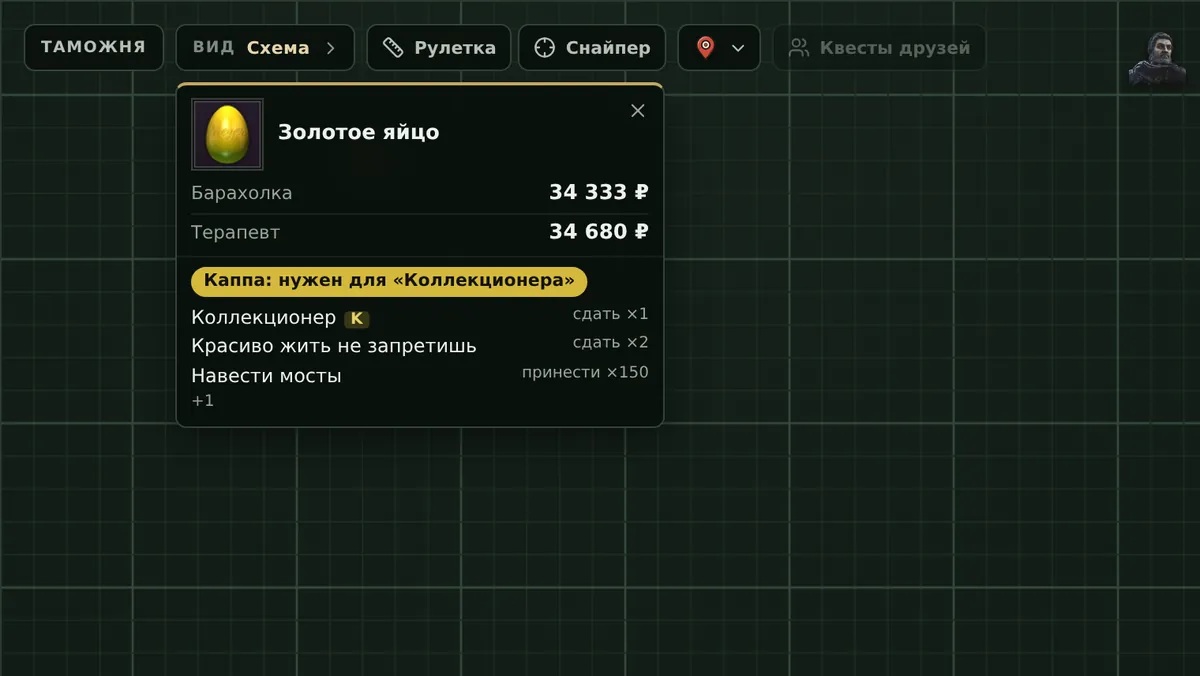
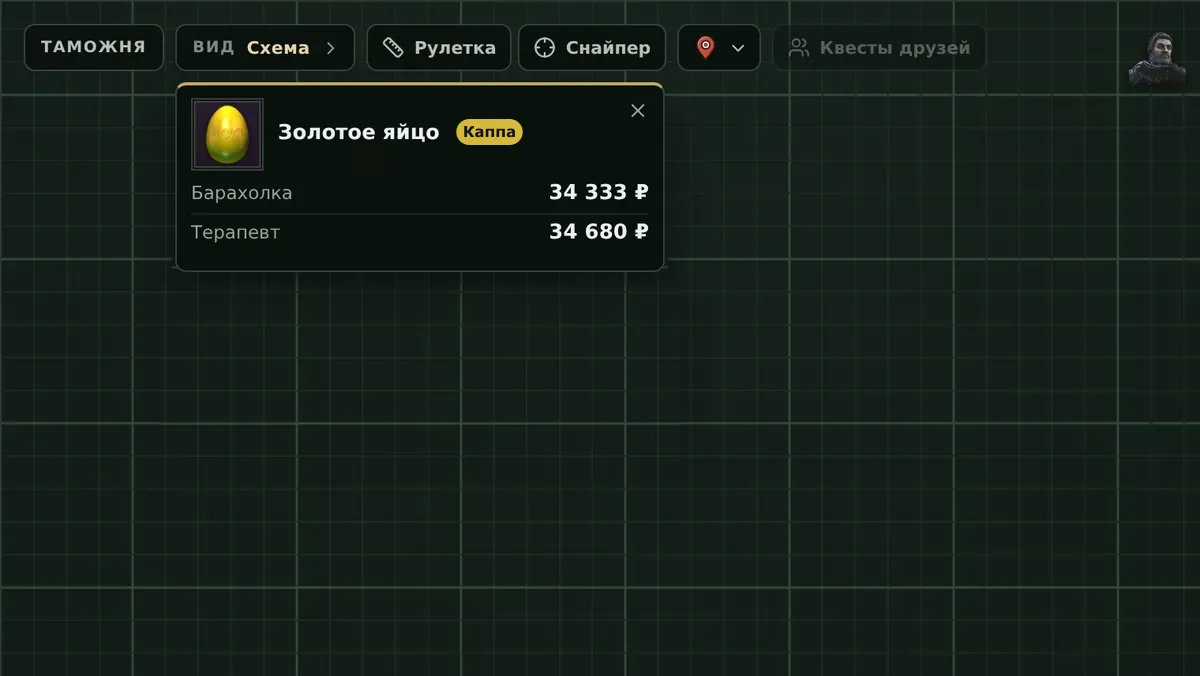
Home page: owner's cuts, the item card as the app draws it, real Collector pictures
Release 0.6.0.103.

diff --git a/website/src/i18n/phrasesPublic.ts b/website/src/i18n/phrasesPublic.ts
@@ -3,8 +3,8 @@ export const PUBLIC_PHRASES: ReadonlyArray<readonly [string, string]> = [
   // The home page's twelve reasons after the trailer of 16.10.2026: the item card and the point on «Карты», «Оружейник».
   ['Предмет', 'Item'],
   ['Информация о предмете — прямо на карте', 'Item info right on the map'],
-  ['Наведите курсор на предмет в игре и нажмите горячую клавишу — её можно повесить и на боковую кнопку мыши. Карточка появится на «Картах» в приложении, слева вверху под кнопкой «Вид», и сразу же в телефоне. Поверх игры ничего не рисуется.',
-    'Hover an item in the game and press the hotkey (a side mouse button works too). The card appears on the app’s Maps, top left under the View button, and at once on your phone. Nothing is drawn over the game.'],
+  ['Наведите курсор на предмет в игре и нажмите горячую клавишу. Карточка появится на «Картах» в приложении и сразу же в телефоне. Поверх игры ничего не рисуется.',
+    'Hover an item in the game and press the hotkey. The card appears on the app’s Maps and at once on your phone. Nothing is drawn over the game.'],
   ['Картинка предмета, цена на барахолке и у лучшего торговца', 'The item’s picture, its flea market price and the best trader price'],
   ['Нужен ли предмет для Каппы и «Коллекционера»', 'Whether the item is needed for Kappa and the Collector'],
   ['Для каких квестов он нужен и сколько штук', 'Which quests need it and how many'],
@@ -17,16 +17,16 @@ export const PUBLIC_PHRASES: ReadonlyArray<readonly [string, string]> = [
   ['Телефон получает позицию моментально', 'The phone gets the position instantly'],
   ['Оружейник', 'Gunsmith'],
   ['Сборки для квестов «Оружейник»', 'Builds for the Gunsmith quests'],
-  ['На «Обзоре» — часть «Оружейника», которую вы взяли, а на своей странице — вся цепочка: какое оружие, какие характеристики нужны и какие детали купить.',
-    'The Overview shows the Gunsmith part you have taken, and its own page the whole chain: which weapon, which stats it needs and which parts to buy.'],
+  ['На «Обзоре» — часть «Оружейника», которую вы взяли.',
+    'The Overview shows the Gunsmith part you have taken.'],
   ['Детали с картинками и ценами', 'Parts with pictures and prices'],
   ['Кто продаёт деталь и с какого уровня торговца', 'Who sells each part and from which trader level'],
   ['Нужные характеристики: эргономика, отдача, вес', 'The stats it needs: ergonomics, recoil, weight'],
   ['Чем можно заменить модуль', 'What can replace a mod'],
   ['Вход на телефоне по QR-коду — без пароля', 'Sign in on the phone with a QR code, no password'],
   ['Raid OS · Карты', 'Raid OS · Maps'],
-  ['Карточка предмета на «Картах» под кнопкой «Вид»: золотое яйцо, цены барахолки и Терапевта, пометка «Каппа» и квесты, для которых он нужен',
-    'The item card on Maps under the View button: the golden egg, its flea market and Therapist prices, the Kappa tag and the quests that need it'],
+  ['Карточка предмета на «Картах»: золотое яйцо с пометкой «Каппа», цены барахолки и Терапевта',
+    'The item card on Maps: the golden egg with the Kappa tag, its flea market and Therapist prices'],
   ['Raid OS · Карты · Таможня', 'Raid OS · Maps · Customs'],
   ['Точка игрока с направлением взгляда на карте Таможни в приложении, рядом квестовые точки', 'The player’s point with the facing direction on the Customs map in the app, quest points nearby'],
   ['Вы здесь', 'You are here'],
@@ -41,7 +41,7 @@ export const PUBLIC_PHRASES: ReadonlyArray<readonly [string, string]> = [
   ['Где вы — на карте и в телефоне', 'Where you are, on the map and on your phone'],
   ['Сделайте скриншот в рейде: точка с направлением взгляда появится на карте в приложении и сразу же в телефоне.', 'Take a screenshot in a raid: a dot with your view direction appears on the map in the app and at once on your phone.'],
   ['Карта текущего рейда открывается сама', 'The current raid’s map opens by itself'],
-  ['Этаж по высоте из скриншота', 'The floor from the screenshot’s height'],
+  ['Этаж', 'The floor'],
   ['Телефон получает позицию и цену предмета моментально', 'The phone gets the position and the item price instantly'],
   ['Отдельное окно рядом с игрой и телефон, Windows 10 и 11.', 'A separate window next to the game and your phone, Windows 10 and 11.'],
   ['прогресс, позиция и цены', 'progress, position and prices'],
@@ -51,7 +51,7 @@ export const PUBLIC_PHRASES: ReadonlyArray<readonly [string, string]> = [
   ['Raid OS — полевой компаньон · Escape from Tarkov', 'Raid OS — field companion · Escape from Tarkov'],
   ['Всё важное перед рейдом — в одном окне рядом с игрой.', 'Everything you need before a raid, in one window next to the game.'],
   ['Скачать приложение', 'Download the app'], ['Личный кабинет', 'My account'],
-  ['Не вмешивается в игру · Windows 10 и 11', 'Does not interfere with the game · Windows 10 and 11'],
+  ['Не вмешивается в игру', 'Does not interfere with the game'],
   ['Пригласи друга', 'Invite a friend'], ['Raid OS выгоднее с отрядом', 'Raid OS pays off with a squad'],
   ['Приглашай друзей, помогай им быстрее закрывать квесты и получай Premium бесплатно. Твой друг получает скидку 20 % на первый месяц, а ты — 7 дней Premium за каждого, кто его оплатил, даже если у тебя ещё не было оплат.',
     'Invite friends, help them finish tasks faster and get Premium for free. Your friend gets 20% off the first month, and you get 7 days of Premium for every friend who pays for it — even if you have never paid yourself.'],
@@ -245,7 +245,7 @@ export const PUBLIC_PHRASES: ReadonlyArray<readonly [string, string]> = [
   ['Метка MATE на карточке предмета: он нужен другу или товарищу по отряду', 'MATE mark on the item card: a friend or squadmate needs it'],
   ['Приглашение ссылкой или QR-кодом, прогресс можно скрыть', 'Invite by link or QR code; progress can be hidden'],
   ['Что внутри', 'What’s inside'], ['Десять причин держать Raid OS открытым', 'Ten reasons to keep Raid OS open'],
-  ['Квесты, карты, цены и отряд — в одном окне рядом с игрой.', 'Tasks, maps, prices and your squad, in one window next to the game.'],
+  ['Квесты, карты, цены и отряд — в одном окне.', 'Tasks, maps, prices and your squad, in one window.'],
   ['Готовы к рейду?', 'Ready to raid?'], ['Следующий рейд — уже с планом', 'Your next raid comes with a plan'],
   ['Скачайте Raid OS для Windows, войдите в аккаунт — и квесты, карты и цены будут под рукой с первого захода.',
     'Download Raid OS for Windows, sign in, and tasks, maps and prices will be at hand from your very first raid.'],
@@ -304,7 +304,7 @@ export const PUBLIC_PHRASES: ReadonlyArray<readonly [string, string]> = [
     'An example squad. The MATE mark shows no names: it is just a sign that someone on your side needs the item.'],
   // The home page presentation per the trailer (11.10.2026).
   ['3D-модели: покрутите и рассмотрите снаряжение', '3D models: turn them and look at the gear'],
-  ['HP по частям тела рядом с цифрами ЧВК', 'HP per body part next to the PMC numbers'],
+  ['HP по частям тела', 'HP per body part'],
   ['PvP, PvE и Сезон — у каждого своя база', 'PvP, PvE and Season, each with its own base'],
   ['«Обзор» в режимах PvP, PvE и Сезон: у каждого свой прогресс', 'The Overview in PvP, PvE and Season: each has its own progress'],
   ['«Обзор» в теме «{name}»', 'The Overview in the “{name}” theme'],
@@ -324,7 +324,7 @@ export const PUBLIC_PHRASES: ReadonlyArray<readonly [string, string]> = [
   ['Горячие клавиши — и на кнопки мыши', 'Hotkeys, mouse buttons included'],
   ['Двенадцать причин держать Raid\u00a0OS открытым', 'Twelve reasons to keep Raid\u00a0OS open'],
   ['Карточка видеокарты с меткой MATE: предмет нужен другу или напарнику', 'The graphics card with the MATE tag: a friend or squad mate needs it'],
-  ['Карточка каждого босса: 3D-модель, здоровье по частям тела, вооружение, лут и тактика боя.', 'A card for every boss: 3D model, health per body part, weapons, loot and combat tactics.'],
+  ['Карточка каждого босса.', 'A card for every boss.'],
   ['Карточка кроссовок Viibiin с пометкой «Каппа» прямо в рейде', 'The Viibiin sneakers card with the “Kappa” tag right in the raid'],
   ['Карточка предмета в рейде: кроссовки Viibiin, пометка «Каппа», цены барахолки и Терапевта', 'The in-raid item card: Viibiin sneakers, the “Kappa” tag, flea market and Therapist prices'],
   ['Квестовые точки рядом', 'Quest points nearby'],
@@ -358,7 +358,7 @@ export const PUBLIC_PHRASES: ReadonlyArray<readonly [string, string]> = [
   ['Пометка «Каппа»: предмет нужен для «Коллекционера»', 'The “Kappa” tag: the item is needed for “Collector”'],
   ['Предметы, требуемые в рейде: ключи, маркеры и то, что нужно заложить', 'Items the raid needs: keys, markers and what to plant'],
   ['Приглашение ссылкой или QR-кодом', 'Invite by link or QR code'],
-  ['Приложение на iOS и Android — скоро', 'The iOS and Android app: coming soon'],
+  ['Приложение на iOS и Android', 'The iOS and Android app'],
   ['Приняли задание в игре — оно уже на «Обзоре». Raid OS собирает план рейда на выбранную карту.', 'Take a task in the game and it is already on the Overview. Raid OS builds the raid plan for the chosen map.'],
   ['Приоритет карт: где больше всего ваших заданий', 'Map priority: where most of your tasks are'],
   ['Пробитие и урон всех патронов', 'Penetration and damage of every round'],

diff --git a/website/src/components/promo/Presentation.tsx b/website/src/components/promo/Presentation.tsx
@@ -14,7 +14,7 @@ interface Feature {
   icon: ReactNode
   eyebrow: string
   title: string
-  lead: string
+  lead?: string
   points: string[]
   visual: ReactNode
   note?: string
@@ -48,11 +48,10 @@ const FEATURES: Feature[] = [
     icon: <Tag />,
     eyebrow: 'Предмет',
     title: 'Информация о предмете — прямо на карте',
-    lead: 'Наведите курсор на предмет в игре и нажмите горячую клавишу — её можно повесить и на боковую кнопку мыши. Карточка появится на «Картах» в приложении, слева вверху под кнопкой «Вид», и сразу же в телефоне. Поверх игры ничего не рисуется.',
+    lead: 'Наведите курсор на предмет в игре и нажмите горячую клавишу. Карточка появится на «Картах» в приложении и сразу же в телефоне. Поверх игры ничего не рисуется.',
     points: [
       'Картинка предмета, цена на барахолке и у лучшего торговца',
       'Нужен ли предмет для Каппы и «Коллекционера»',
-      'Для каких квестов он нужен и сколько штук',
       'Метка, если предмет нужен другу или напарнику из отряда',
     ],
     visual: <MapItemVisual />,
@@ -62,10 +61,8 @@ const FEATURES: Feature[] = [
     icon: <Layers />,
     eyebrow: 'Режимы',
     title: 'PvP, PvE и Сезон — у каждого своя база',
-    lead: 'Переключились — и всё приложение показывает выбранный режим.',
     points: [
       'Свой прогресс заданий и Каппы',
-      'Свои задания',
       'Свои цены на барахолке',
     ],
     visual: <ModesVisual />,
@@ -75,7 +72,6 @@ const FEATURES: Feature[] = [
     icon: <Archive />,
     eyebrow: 'Путь к Каппе',
     title: '«Коллекционер» собирается сам',
-    lead: 'Нажмите «Сканировать» и пролистайте схрон — найденные предметы отметятся сами.',
     points: [
       'Синхронизация из схрона',
       'Что уже собрано и что осталось',
@@ -91,7 +87,7 @@ const FEATURES: Feature[] = [
     lead: 'Сделайте скриншот в рейде: точка с направлением взгляда появится на «Картах» в приложении и сразу же в телефоне.',
     points: [
       'Карта текущего рейда открывается сама',
-      'Этаж по высоте из скриншота',
+      'Этаж',
       'Квестовые точки и выходы рядом',
       'Телефон получает позицию моментально',
     ],
@@ -116,7 +112,7 @@ const FEATURES: Feature[] = [
     icon: <Wrench />,
     eyebrow: 'Оружейник',
     title: 'Сборки для квестов «Оружейник»',
-    lead: 'На «Обзоре» — часть «Оружейника», которую вы взяли, а на своей странице — вся цепочка: какое оружие, какие характеристики нужны и какие детали купить.',
+    lead: 'На «Обзоре» — часть «Оружейника», которую вы взяли.',
     points: [
       'Детали с картинками и ценами',
       'Кто продаёт деталь и с какого уровня торговца',
@@ -130,10 +126,10 @@ const FEATURES: Feature[] = [
     icon: <Skull />,
     eyebrow: 'Боссы',
     title: 'Боссы в 3D и их здоровье',
-    lead: 'Карточка каждого босса: 3D-модель, здоровье по частям тела, вооружение, лут и тактика боя.',
+    lead: 'Карточка каждого босса.',
     points: [
       '3D-модели: покрутите и рассмотрите снаряжение',
-      'HP по частям тела рядом с цифрами ЧВК',
+      'HP по частям тела',
       'Вооружение, лут и «Тактика боя»',
     ],
     visual: <BossesVisual />,
@@ -171,7 +167,6 @@ const FEATURES: Feature[] = [
     lead: 'Кнопка палитры в верхней панели переключает оформление всего приложения.',
     points: [
       'Олива, Чёрный мультикам, Металл, Тельняшка и Снаряжение',
-      'Выбранная тема запоминается',
     ],
     visual: <ThemesVisual />,
   },
@@ -185,7 +180,7 @@ const FEATURES: Feature[] = [
       'Полная синхронизация',
       'Моментальное местоположение на телефоне',
       'Вход на телефоне по QR-коду — без пароля',
-      'Приложение на iOS и Android — скоро',
+      'Приложение на iOS и Android',
     ],
     visual: <SyncVisual />,
   },
@@ -198,7 +193,7 @@ function FeatureSection({ feature, index }: { feature: Feature; index: number })
       <Reveal className="feature-text">
         <div className="feature-eyebrow"><span className="feature-icon" aria-hidden="true">{feature.icon}</span><span className="feature-num">{number}</span>{tr(feature.eyebrow)}</div>
         <h2 className="feature-title" id={`${feature.id}-title`}>{tr(feature.title)}</h2>
-        <p className="feature-lead">{tr(feature.lead)}</p>
+        {feature.lead && <p className="feature-lead">{tr(feature.lead)}</p>}
         <ul className="feature-points">{feature.points.map((point) => <li key={point}>{tr(point)}</li>)}</ul>
         {feature.note && <p className="feature-note">{tr(feature.note)}</p>}
       </Reveal>
@@ -214,7 +209,7 @@ export function Presentation() {
         <Reveal className="promo-intro">
           <div className="eyebrow">{tr('Что внутри')}</div>
           <h2 className="promo-intro-title">{tr('Двенадцать причин держать Raid\u00a0OS открытым')}</h2>
-          <p className="promo-intro-lead">{tr('Квесты, карты, цены и отряд — в одном окне рядом с игрой.')}</p>
+          <p className="promo-intro-lead">{tr('Квесты, карты, цены и отряд — в одном окне.')}</p>
         </Reveal>
         {FEATURES.map((feature, index) => <FeatureSection key={feature.id} feature={feature} index={index} />)}
       </div>

diff --git a/website/src/components/promo/PromoVisuals.tsx b/website/src/components/promo/PromoVisuals.tsx
@@ -77,7 +77,7 @@ export function OverviewVisual() {
 export function MapItemVisual() {
   return (
     <figure className="promo-figure">
-      <Shot src={shot(mapItem, mapItemEn)} width={1200} height={676} title={tr('Raid OS · Карты')} alt={tr('Карточка предмета на «Картах» под кнопкой «Вид»: золотое яйцо, цены барахолки и Терапевта, пометка «Каппа» и квесты, для которых он нужен')} />
+      <Shot src={shot(mapItem, mapItemEn)} width={1200} height={676} title={tr('Raid OS · Карты')} alt={tr('Карточка предмета на «Картах»: золотое яйцо с пометкой «Каппа», цены барахолки и Терапевта')} />
     </figure>
   )
 }
@@ -210,16 +210,16 @@ export function SyncVisual() {
     <figure className="promo-figure">
       <div className="sync-mock">
         <div className="sync-devices" role="img" aria-label={tr('Схема: приложение для ПК, сайт и телефон связаны через один аккаунт на сервере Raid OS')}>
-          <div className="sync-node"><Monitor aria-hidden="true" /><strong>{tr('ПК')}</strong><span>{tr('квесты, сюжет, Каппа')}</span></div>
-          <div className="sync-node"><Globe aria-hidden="true" /><strong>{tr('Сайт')}</strong><span>{tr('кабинет и подписка')}</span></div>
-          <div className="sync-node"><Smartphone aria-hidden="true" /><strong>{tr('Телефон')}</strong><span>{tr('прогресс, позиция и цены')}</span></div>
+          <div className="sync-node"><Monitor aria-hidden="true" /><strong>{tr('ПК')}</strong></div>
+          <div className="sync-node"><Globe aria-hidden="true" /><strong>{tr('Сайт')}</strong></div>
+          <div className="sync-node"><Smartphone aria-hidden="true" /><strong>{tr('Телефон')}</strong></div>
           <div className="sync-hub"><Server aria-hidden="true" /><strong>{tr('Один аккаунт')}</strong></div>
         </div>
         <div className="sync-live">
           <div className="phone-frame is-small"><img src={shot(phoneLive, phoneLiveEn)} width={520} height={1015} loading="lazy" decoding="async" alt={tr('Карта на телефоне: местоположение игрока с ПК')} /></div>
           <div className="sync-qr">
             <LoginQr value={downloadUrl} size={120} label={tr('QR-код со ссылкой на страницу загрузки Raid OS')} />
-            <p><strong>{tr('Вход по QR')}</strong>{tr('В приложении так входят на телефоне: код живёт 2 минуты и срабатывает один раз. Этот код — просто ссылка на страницу загрузки.')}</p>
+            <p><strong>{tr('Вход по QR')}</strong></p>
           </div>
         </div>
       </div>

diff --git a/website/src/pages/HomePage.tsx b/website/src/pages/HomePage.tsx
@@ -33,7 +33,7 @@ export function HomePage({ banner }: { banner?: ReactNode }) {
           </div>
           <div className="stagger" style={stagger(5)}><Platforms /></div>
           <p className="hero-note stagger" style={stagger(6)}>
-            <ShieldCheck aria-hidden="true" />{tr('Не вмешивается в игру · Windows 10 и 11')}
+            <ShieldCheck aria-hidden="true" />{tr('Не вмешивается в игру')}
           </p>
         </div>
       </section>

diff --git a/website/src/config.ts b/website/src/config.ts
@@ -1,4 +1,4 @@
-export const APP_VERSION = '0.6.0.102'
+export const APP_VERSION = '0.6.0.103'
 export const PRODUCT_NAME = 'Raid OS'
 
 /** Account API base URL. The API server (server/) listens on port 8787 by default (see server/src/index.ts). */

diff --git a/docs/coordination/WORK_LOG.md b/docs/coordination/WORK_LOG.md
@@ -2040,3 +2040,12 @@ Review `7b49bc6`, `53de28e`, `2abe1d7`; при интеграции — серв
 - Проверки: curl как Googlebot — `/`, `/about`, `/download` 200 со своими title/canonical; `www` → 301; `/download/windows`, `/api/health` работают. Полные проверки — в RaidOS Production Gate.
 - Состояние: выпуск 0.6.0.102 (ветка `claude/seo-index`).
 - Риски / владельцу: сайт нужно добавить в Google Search Console (подтверждение владельцем) и отправить sitemap там и в Яндекс Вебмастере; индексация занимает дни–недели. Неизвестные пути по-прежнему отдают главную с 200 (SPA fallback) — мягкие 404 не исправлялись.
+
+## 2026-10-27 — Claude: 0.6.0.103 — главная сайта: убраны лишние фразы, карточка предмета как в приложении, настоящие картинки «Коллекционера»
+
+- Владелец (скриншоты с пометками, 27.10): убрать зачёркнутое на главной и вставить реальные картинки.
+- Тексты (RU и EN, `website/src/components/promo/Presentation.tsx`, `PromoVisuals.tsx`, `pages/HomePage.tsx`, `i18n/phrasesPublic.ts`): «Не вмешивается в игру» без «Windows 10 и 11»; «в одном окне» без «рядом с игрой» во вступлении; «Предмет» — без боковой кнопки мыши и «слева вверху под кнопкой «Вид»», убран пункт «Для каких квестов он нужен и сколько штук» (приложение с 20.10 квесты в карточке не показывает); «Режимы» — без подзаголовка и пункта «Свои задания»; «Путь к Каппе» — без подзаголовка про «Сканировать»; «Позиция» — «Этаж»; «Оружейник» — только «На «Обзоре» — часть «Оружейника», которую вы взяли.»; «Боссы» — «Карточка каждого босса.», «HP по частям тела»; «Темы» — без «Выбранная тема запоминается»; «Синхронизация» — без подписей под ПК/Сайт/Телефон и текста у «Вход по QR», «Приложение на iOS и Android» без «скоро». `lead` у раздела стал необязательным.
+- Картинки: `map-item.webp` / `map-item-en.webp` — карточка «Золотое яйцо» без плашки и списка квестов, жёлтая метка «Каппа» / «Kappa» у названия (перерисовано из прежних снимков sharp-скриптом, сетка карты восстановлена со сдвигом на одну клетку 164 px); `kappa.webp` — вместо заглушек-кубиков настоящие картинки 10 предметов «Коллекционера» (grid-image assets.tarkov.dev, id сверены с каталогом зеркала на VPS; несобранные приглушены).
+- Проверки: typecheck сайта, vite build, vitest website 107/108 (упал `registrationCountry.test.tsx` по таймауту под нагрузкой, отдельно 5/5); страница проверена в браузере (RU) — отмеченных фраз нет. Полные проверки — в RaidOS Production Gate.
+- Состояние: выпуск 0.6.0.103 (ветка `claude/site-texts`).
+- Риски: картинки правлены поверх старых снимков, а не пересняты `scripts/trailer/capture.mjs` — при следующей пересъёмке трейлера нужно, чтобы снимки уже были без списка квестов. Не тронуты (не отмечены): «Всё важное перед рейдом — в одном окне рядом с игрой.» в шапке и «Работает рядом с игрой. Отдельное окно рядом с игрой и телефон, Windows 10 и 11.» в финальном блоке.
